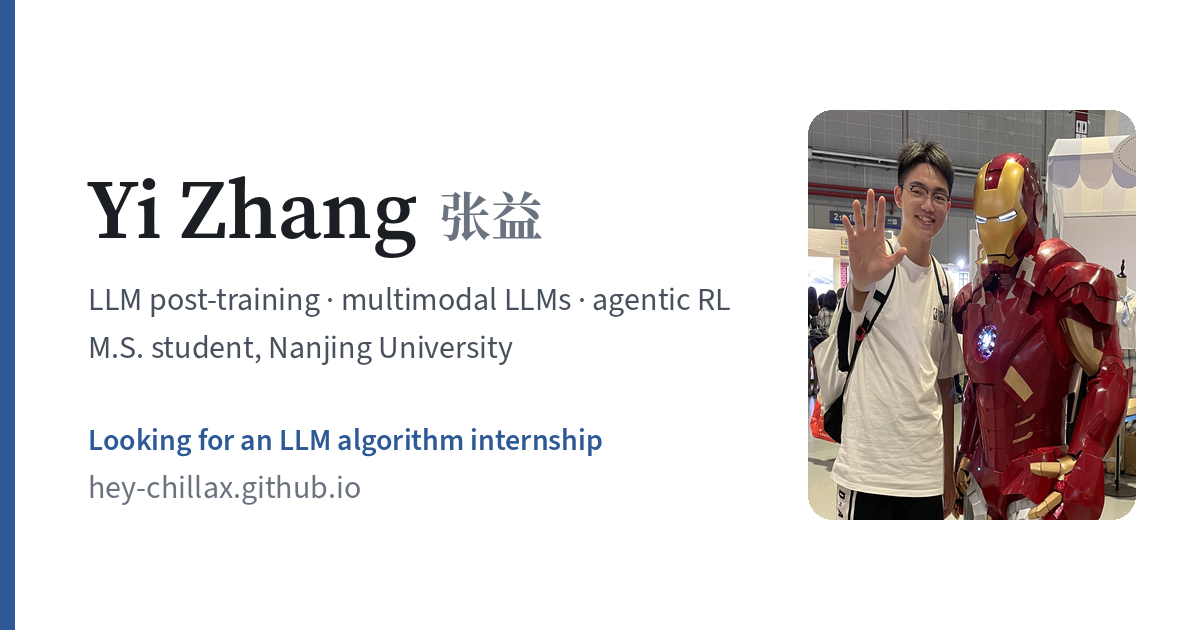
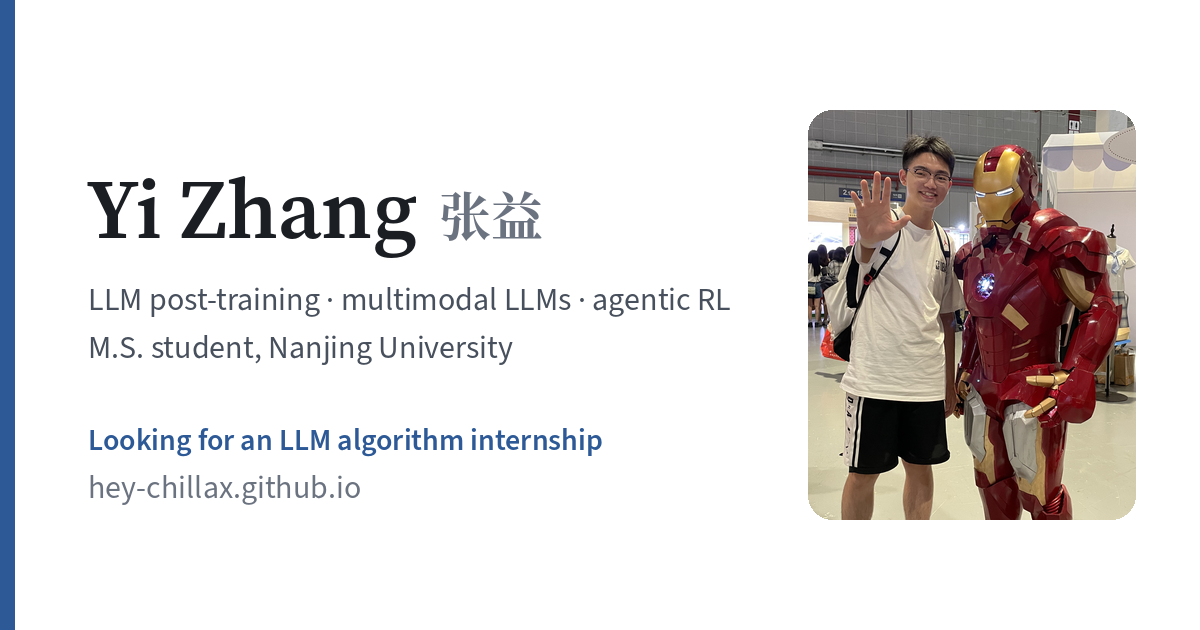
Photo: three-quarter-length crop with the Iron Man (4:5)
- Profile photo is crop B of the life photo (560 × 700), picked after
  comparing five crops on the page; the photo frame is 4:5
- The share card (og.png) keeps the photo's own aspect ratio; the 1:1
  crop had been squeezed into its 4:5 slot

Changed region(s): [[0.6475, 0.1508, 0.9558, 0.8444]]

diff --git a/assets/css/site.css b/assets/css/site.css
@@ -173,7 +173,7 @@ html[data-lang="zh"] .hero h1 .alt-name { letter-spacing: 0; }
 .hero .bio p { margin: 0 0 10px; }
 .photo { margin: 4px 0 0; position: relative; }
 .photo img {
-  display: block; width: 220px; height: auto; aspect-ratio: 1 / 1; object-fit: cover; border-radius: 18px;
+  display: block; width: 220px; height: auto; aspect-ratio: 4 / 5; object-fit: cover; border-radius: 18px;
   box-shadow: 0 1px 2px rgba(16, 24, 40, .06), 0 14px 32px rgba(20, 40, 80, .14);
 }
 .photo::after { content: ""; position: absolute; inset: 0; border-radius: 18px; box-shadow: inset 0 0 0 1px rgba(0, 0, 0, .06); pointer-events: none; }

diff --git a/index.html b/index.html
@@ -86,7 +86,7 @@
       </ul>
     </div>
     <figure class="photo">
-      <img src="assets/img/photo.jpg" width="560" height="560" alt="Yi Zhang waving, next to an Iron Man figure">
+      <img src="assets/img/photo.jpg" width="560" height="700" alt="Yi Zhang waving, next to an Iron Man figure">
     </figure>
   </section>
 </div>

diff --git a/tools/make_assets.py b/tools/make_assets.py
@@ -164,9 +164,10 @@ def crop_box(im, box):
     return im.crop((int(x0 * im.width), int(y0 * im.height), int(x1 * im.width), int(y1 * im.height)))
 
 
-# Crop of "ID photo/Life photo.png" (3024 x 4032): half body with the Iron Man next to him (option C, chosen 2026-11-17).
-PORTRAIT_BOX = (0.1944, 0.2083, 0.8167, 0.6750)   # 1:1
-PORTRAIT_SIZE = (560, 560)
+# Crop of "ID photo/Life photo.png" (3024 x 4032): three-quarter length with the Iron Man next to him
+# (option B, chosen 2026-11-19 after comparing five crops on the page).
+PORTRAIT_BOX = (0.1723, 0.2042, 0.8390, 0.8292)   # 4:5
+PORTRAIT_SIZE = (560, 700)
 AVATAR_BOX = (0.2815, 0.2222, 0.4963, 0.3833)     # 1:1, face centred
 
 
@@ -196,8 +197,9 @@ def build_images(photo, texlive):
     d.text((88, 326), 'M.S. student, Nanjing University', font=sans, fill=(71, 80, 92))
     d.text((88, 420), 'Looking for an LLM algorithm internship', font=sans_b, fill=ACCENT)
     d.text((88, 466), 'hey-chillax.github.io', font=sans, fill=(107, 115, 128))
-    face = rounded(portrait.resize((328, 410), Image.LANCZOS), 24)
-    card.paste(face, (808, 110), face)
+    fw = round(410 * portrait.width / portrait.height)   # keep the crop's own aspect ratio (4:5 gives 328 x 410)
+    face = rounded(portrait.resize((fw, 410), Image.LANCZOS), 24)
+    card.paste(face, (1136 - fw, 110), face)
     card.save(IMG / 'og.png', optimize=True)
     print('og.png', (IMG / 'og.png').stat().st_size // 1024, 'KB')
 
